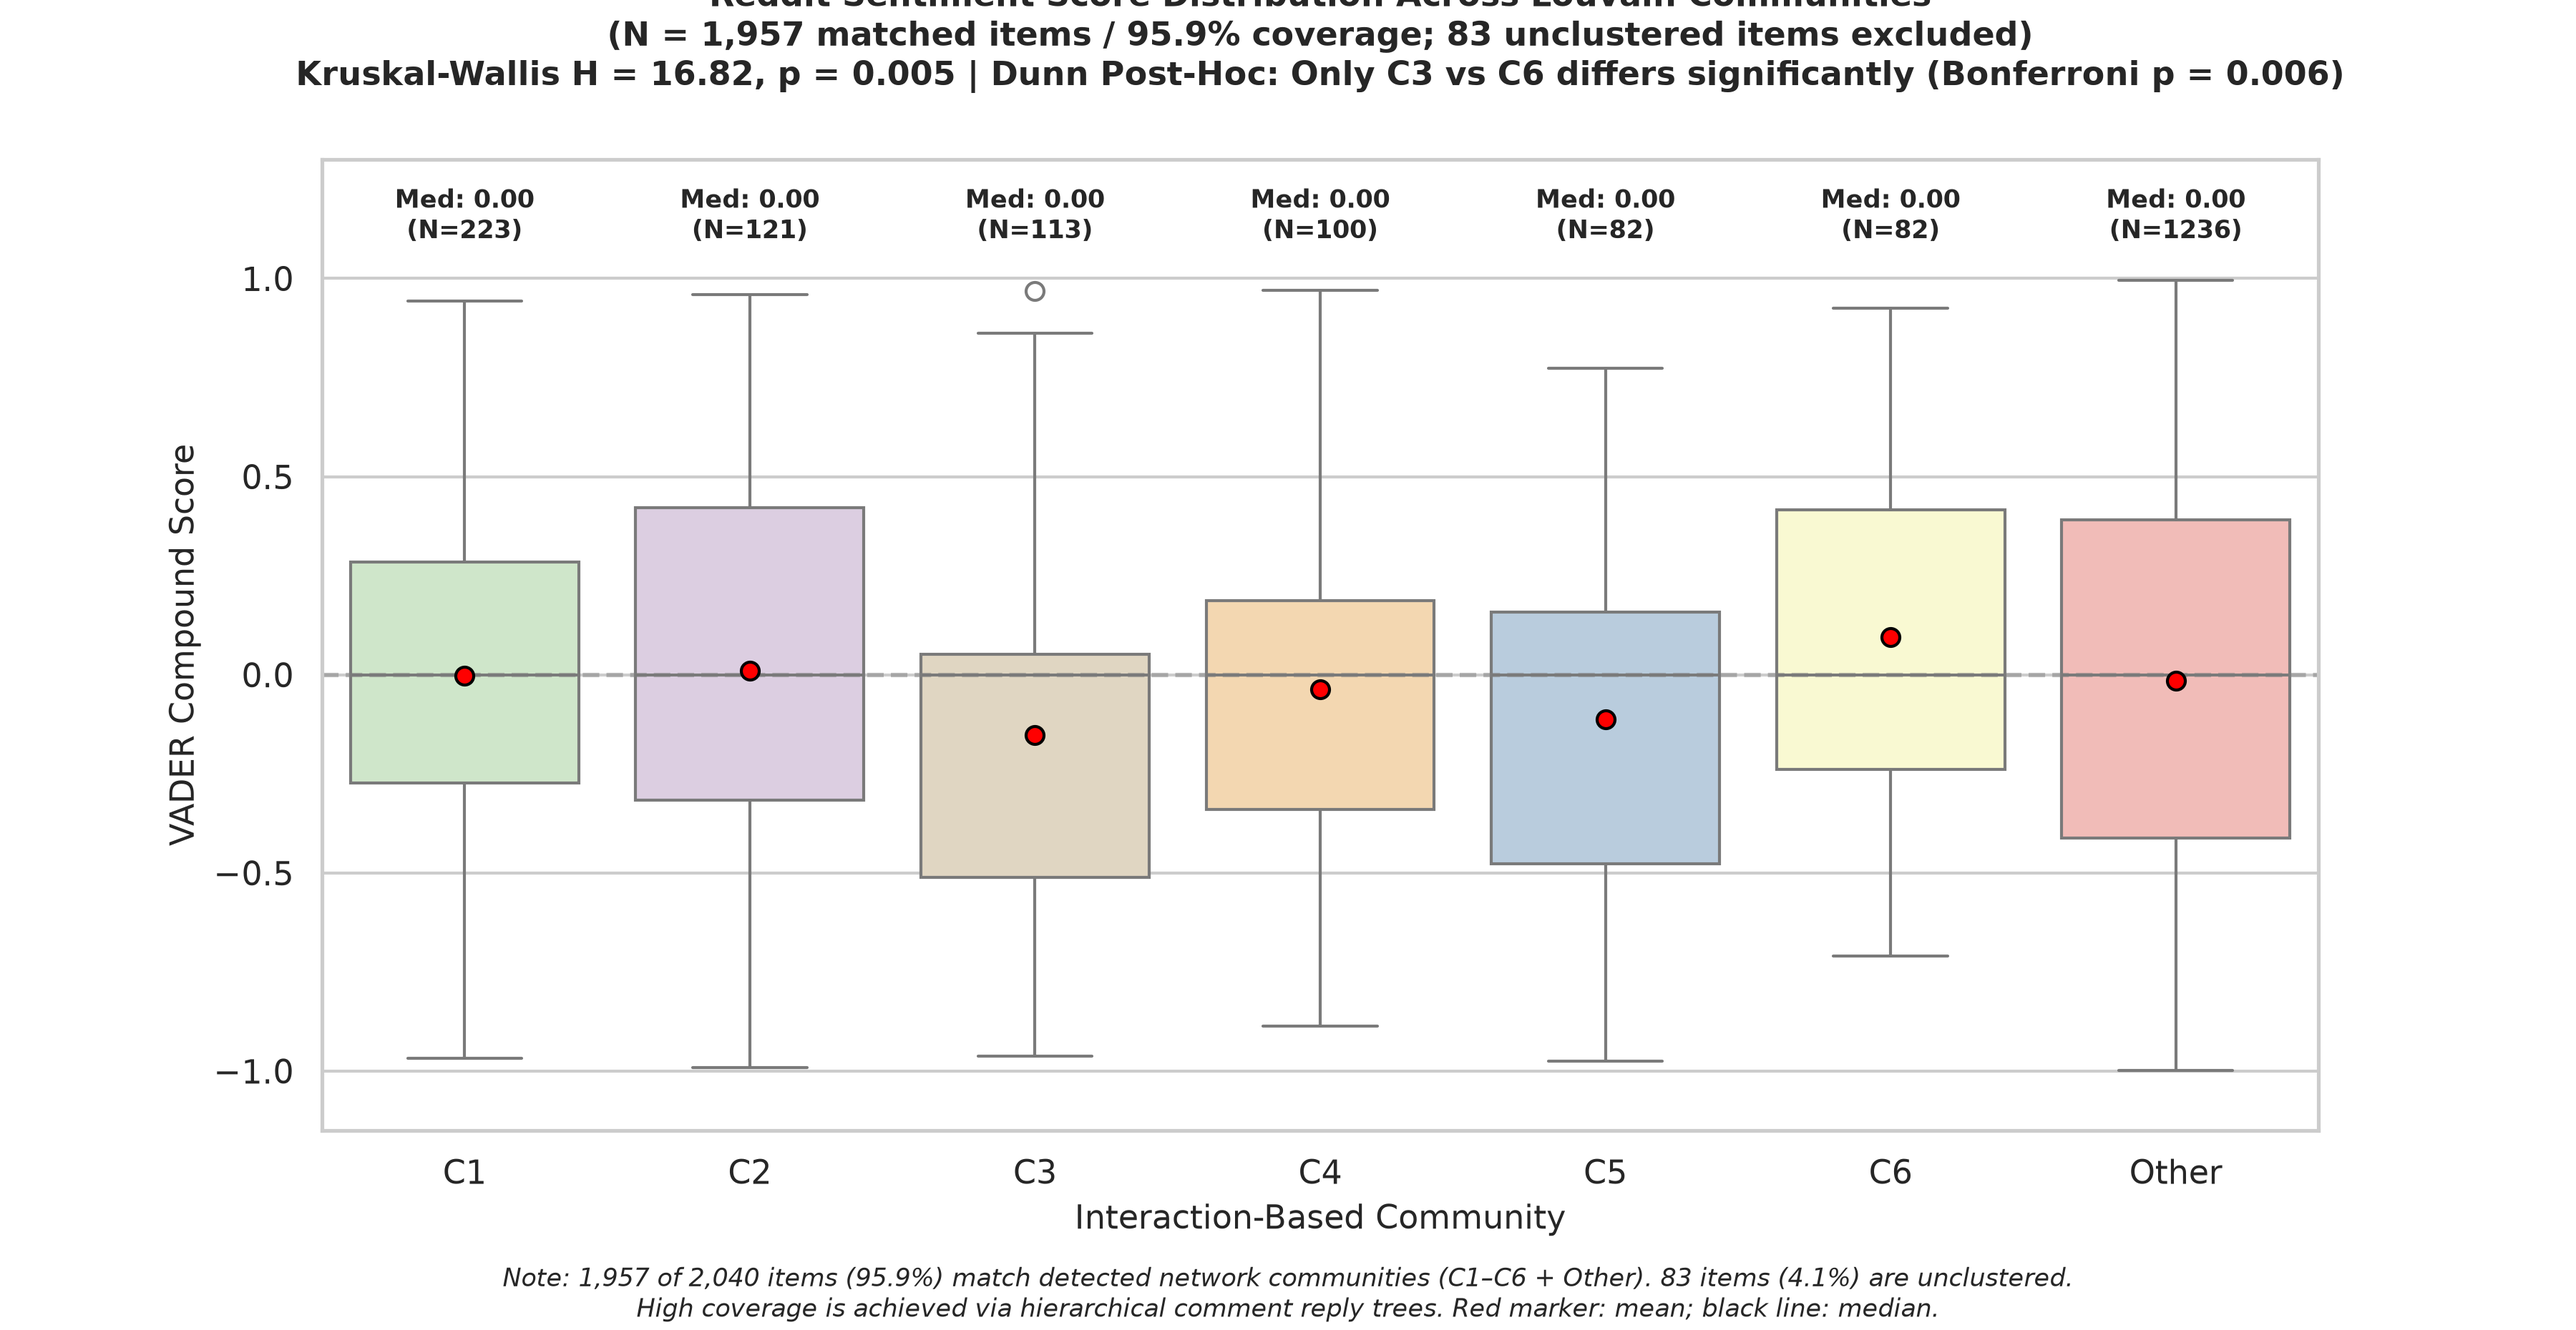
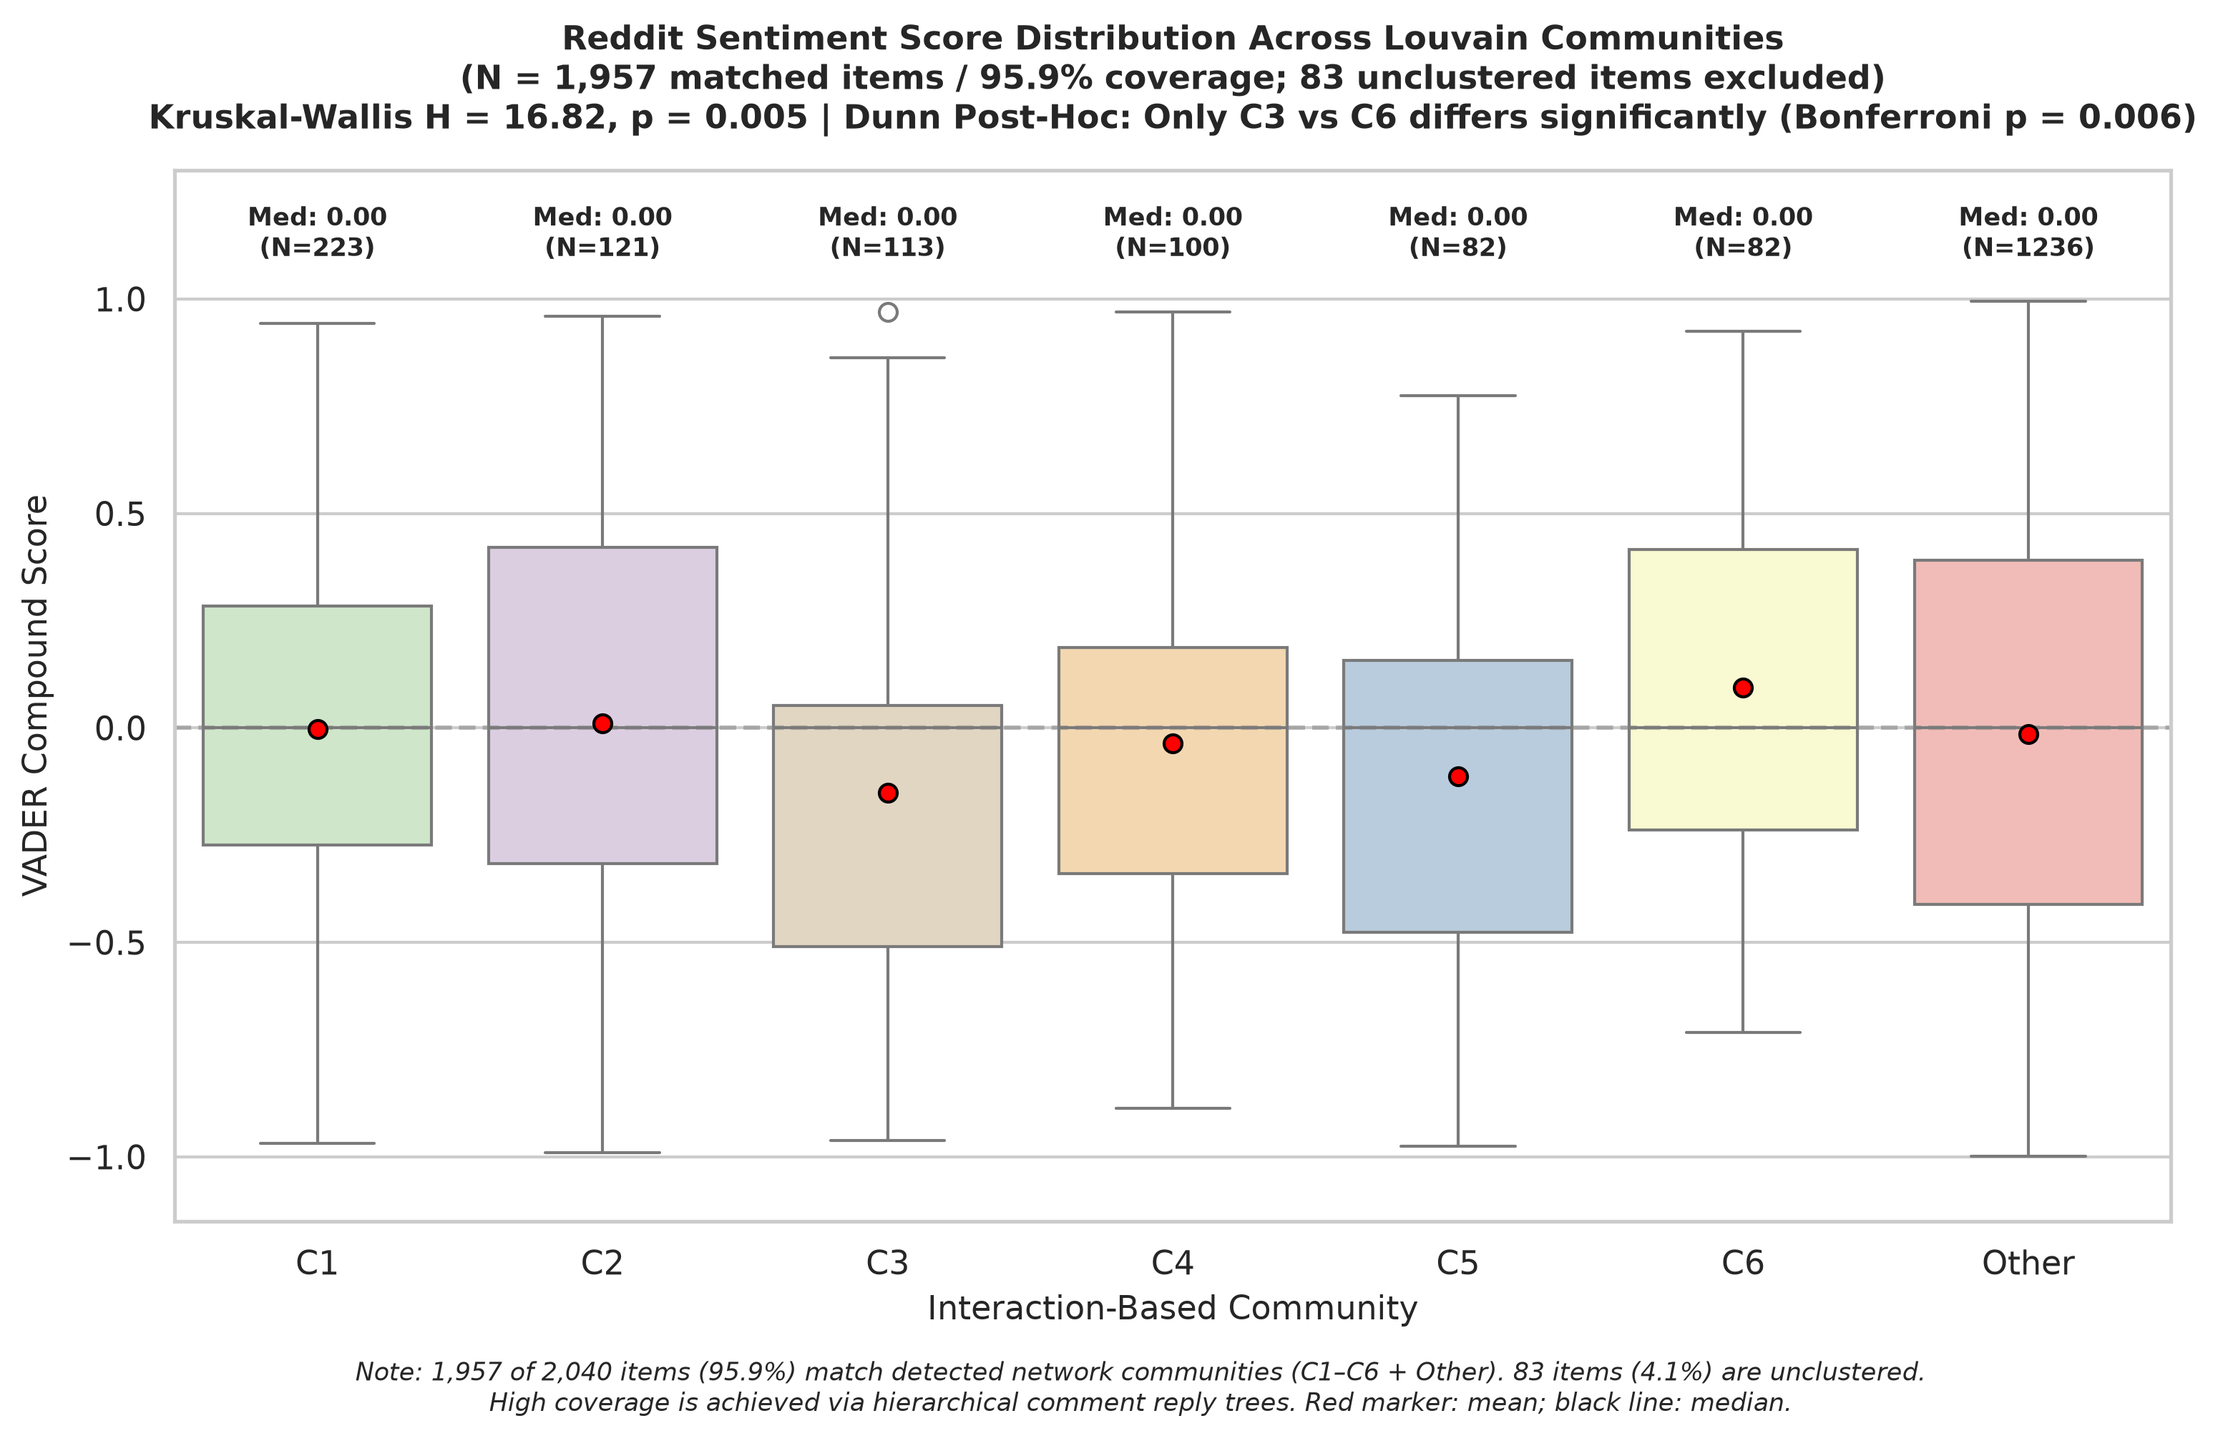
fix: resolve plot title clipping and refactor stance validation metrics to pure numpy

diff --git a/scripts/sentiment_analysis.py b/scripts/sentiment_analysis.py
@@ -432,7 +432,7 @@ def run_sentiment_pipeline():
     comm_order = ['C1', 'C2', 'C3', 'C4', 'C5', 'C6', 'Other']
     x_filtered_comm = x_df[x_df['Community'].isin(comm_order)].copy()
 
-    plt.figure(figsize=(12, 6.2))
+    plt.figure(figsize=(12, 6.8))
     ax = plt.subplot(111)
     sns.boxplot(data=x_filtered_comm, x='Community', y='sentiment_compound', hue='Community', order=comm_order,
                 palette='Set3', ax=ax, showmeans=True, legend=False,
@@ -446,7 +446,7 @@ def run_sentiment_pipeline():
                     ha='center', va='bottom', fontsize=8.5, fontweight='semibold')
 
     plt.title('X (Twitter) Sentiment Score Distribution Across Louvain Communities\n(N = 1,995 matched tweets / 57.9% coverage; 1,452 unclustered broadcast tweets excluded)\nKruskal-Wallis H = 12.44, p = 0.029 | Dunn Post-Hoc: Only C2 vs C4 differs significantly (Bonferroni p = 0.024)', 
-              fontsize=11, fontweight='bold', pad=25)
+              fontsize=11, fontweight='bold', pad=14)
     plt.xlabel('Interaction-Based Community', fontsize=11)
     plt.ylabel('VADER Compound Score', fontsize=11)
     plt.ylim(-1.15, 1.30)
@@ -455,9 +455,9 @@ def run_sentiment_pipeline():
     plt.figtext(0.5, 0.01, 
                 "Note: 1,995 of 3,447 tweets (57.9%) match detected network communities (C1–C6 + Other). 1,452 tweets (42.1%) are authored by isolated broadcasters\noutside the mention/retweet graph; their median sentiment is -0.316 (unclustered) vs -0.318 (matched). Red marker: mean; black line: median.",
                 ha='center', fontsize=8.5, style='italic')
-    plt.subplots_adjust(bottom=0.15)
+    plt.subplots_adjust(top=0.86, bottom=0.14)
     v2_path = os.path.join(x_out_dir, "x_community_sentiment_distributions.png")
-    plt.savefig(v2_path, dpi=300)
+    plt.savefig(v2_path, dpi=300, bbox_inches='tight')
     plt.close()
     print(f" -> Saved {v2_path}")
 
@@ -466,7 +466,7 @@ def run_sentiment_pipeline():
     # -------------------------------------------------------------------------
     r_filtered_comm = r_df[r_df['Community'].isin(comm_order)].copy()
 
-    plt.figure(figsize=(12, 6.2))
+    plt.figure(figsize=(12, 6.8))
     ax = plt.subplot(111)
     sns.boxplot(data=r_filtered_comm, x='Community', y='sentiment_compound', hue='Community', order=comm_order,
                 palette='Pastel1', ax=ax, showmeans=True, legend=False,
@@ -480,7 +480,7 @@ def run_sentiment_pipeline():
                     ha='center', va='bottom', fontsize=8.5, fontweight='semibold')
 
     plt.title('Reddit Sentiment Score Distribution Across Louvain Communities\n(N = 1,957 matched items / 95.9% coverage; 83 unclustered items excluded)\nKruskal-Wallis H = 16.82, p = 0.005 | Dunn Post-Hoc: Only C3 vs C6 differs significantly (Bonferroni p = 0.006)', 
-              fontsize=11, fontweight='bold', pad=25)
+              fontsize=11, fontweight='bold', pad=14)
     plt.xlabel('Interaction-Based Community', fontsize=11)
     plt.ylabel('VADER Compound Score', fontsize=11)
     plt.ylim(-1.15, 1.30)
@@ -488,9 +488,9 @@ def run_sentiment_pipeline():
     plt.figtext(0.5, 0.01, 
                 "Note: 1,957 of 2,040 items (95.9%) match detected network communities (C1–C6 + Other). 83 items (4.1%) are unclustered.\nHigh coverage is achieved via hierarchical comment reply trees. Red marker: mean; black line: median.",
                 ha='center', fontsize=8.5, style='italic')
-    plt.subplots_adjust(bottom=0.15)
+    plt.subplots_adjust(top=0.86, bottom=0.14)
     v3_path = os.path.join(reddit_out_dir, "reddit_community_sentiment_distributions.png")
-    plt.savefig(v3_path, dpi=300)
+    plt.savefig(v3_path, dpi=300, bbox_inches='tight')
     plt.close()
     print(f" -> Saved {v3_path}")
 

diff --git a/scripts/validate_stance_classifier.py b/scripts/validate_stance_classifier.py
@@ -5,10 +5,33 @@ import pandas as pd
 import numpy as np
 import matplotlib.pyplot as plt
 import seaborn as sns
-from sklearn.metrics import classification_report, confusion_matrix, precision_recall_fscore_support
-
 # Ensure UTF-8 standardisation on Windows terminal
 sys.stdout.reconfigure(encoding='utf-8')
+
+def compute_confusion_and_metrics(y_true, y_pred, classes):
+    """Compute confusion matrix and precision/recall/f1 metrics using pure NumPy."""
+    cm = np.zeros((len(classes), len(classes)), dtype=int)
+    class_map = {c: i for i, c in enumerate(classes)}
+    for t, p in zip(y_true, y_pred):
+        if t in class_map and p in class_map:
+            cm[class_map[t], class_map[p]] += 1
+            
+    p = []
+    r = []
+    f1 = []
+    support = []
+    for i, c in enumerate(classes):
+        tp = cm[i, i]
+        fp = cm[:, i].sum() - tp
+        fn = cm[i, :].sum() - tp
+        prec = tp / (tp + fp) if (tp + fp) > 0 else 0.0
+        rec = tp / (tp + fn) if (tp + fn) > 0 else 0.0
+        f = (2 * prec * rec) / (prec + rec) if (prec + rec) > 0 else 0.0
+        p.append(prec)
+        r.append(rec)
+        f1.append(f)
+        support.append(cm[i, :].sum())
+    return cm, np.array(p), np.array(r), np.array(f1), np.array(support)
 
 def run_stance_validation():
     base_dir = r"c:\Users\Palak\Documents\csma_prj"
@@ -144,8 +167,8 @@ def run_stance_validation():
 
     # Metrics calculation
     classes = ['Pro-CJP', 'Anti-CJP', 'Neutral/Unclear']
-    p, r, f1, support = precision_recall_fscore_support(
-        sample_df['ground_truth_stance'], sample_df['mapped_predicted_stance'], labels=classes, zero_division=0
+    cm, p, r, f1, support = compute_confusion_and_metrics(
+        sample_df['ground_truth_stance'], sample_df['mapped_predicted_stance'], classes
     )
 
     metrics_df = pd.DataFrame({
@@ -188,14 +211,13 @@ def run_stance_validation():
     print(f"Overall Accuracy: {sample_df['is_correct'].mean() * 100:.2f}% (N = 180 stratified items)")
 
     # Confusion Matrix
-    cm = confusion_matrix(sample_df['ground_truth_stance'], sample_df['mapped_predicted_stance'], labels=classes)
     cm_df = pd.DataFrame(cm, index=[f"True {c}" for c in classes], columns=[f"Pred {c}" for c in classes])
 
     print("\n--- Confusion Matrix ---")
     print(cm_df)
 
     # Plot Confusion Matrix
-    plt.figure(figsize=(8, 6.5))
+    plt.figure(figsize=(8.5, 6.8))
     sns.set_theme(style="white")
     plt.rcParams['font.sans-serif'] = 'DejaVu Sans'
 
@@ -218,7 +240,7 @@ def run_stance_validation():
     plt.tight_layout()
 
     out_cm_path = os.path.join(out_dir, "stance_validation_confusion_matrix.png")
-    plt.savefig(out_cm_path, dpi=300)
+    plt.savefig(out_cm_path, dpi=300, bbox_inches='tight')
     plt.close()
     print(f" -> Saved validation confusion matrix plot: {out_cm_path}")
 
